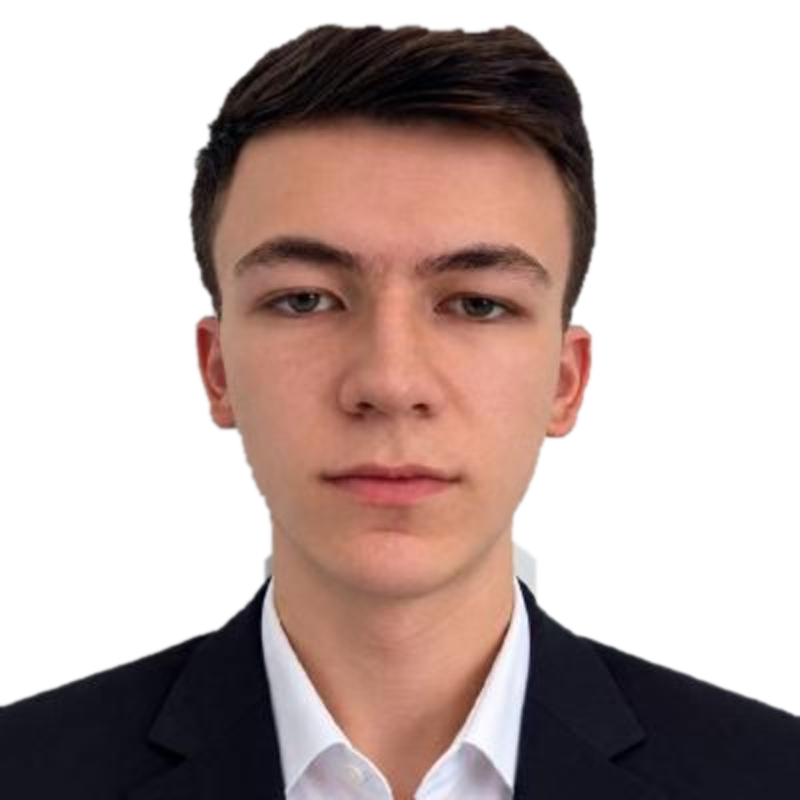
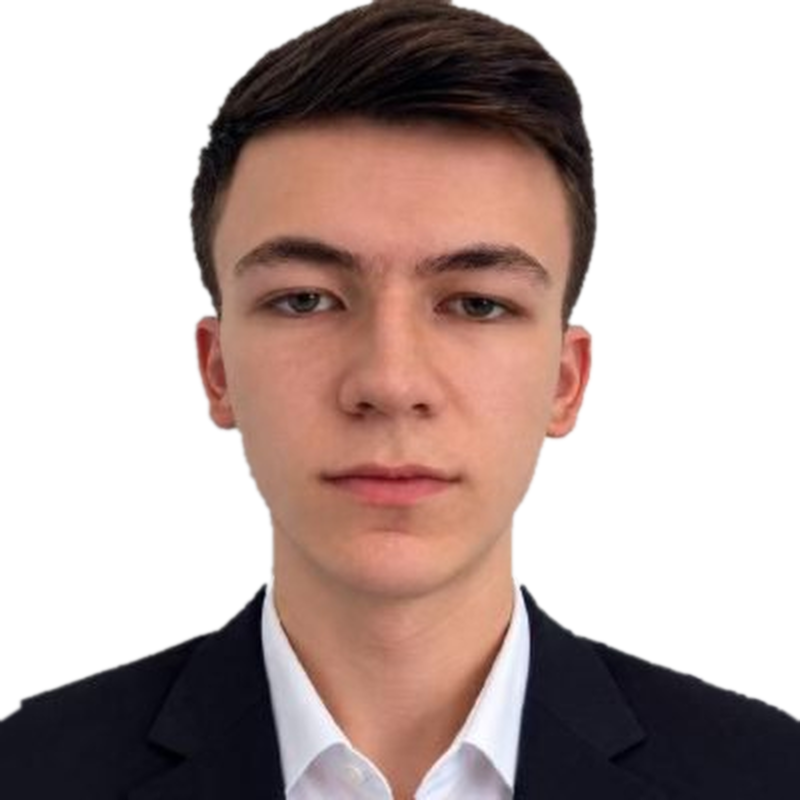
Re-cut portrait with GrabCut and soften the cropped hair edge
The previous cutout left wall residue beside the neck and had rough edges.

diff --git a/css/style.css b/css/style.css
@@ -192,7 +192,7 @@ ul { margin: 0; padding: 0; list-style: none; }
   /* let the head rise above the panel while the shoulders stay inside its rounded base */
   clip-path: inset(-26% 0 0 0 round 0 0 var(--radius) var(--radius));
 }
-.portrait img { position: absolute; left: -9%; bottom: 0; width: 118%; max-width: none; height: auto; display: block; }
+.portrait img { position: absolute; left: -9%; bottom: 0; width: 118%; max-width: none; height: auto; display: block; -webkit-mask-image: linear-gradient(to bottom, transparent 0, #000 5%); mask-image: linear-gradient(to bottom, transparent 0, #000 5%); }
 .portrait-caption { display: grid; gap: 0.15rem; margin-top: var(--space-2); }
 .portrait-caption strong { font: 700 var(--step-1)/1.2 var(--font-display); }
 .portrait-caption span { color: var(--text-muted); font-size: 0.95rem; }
